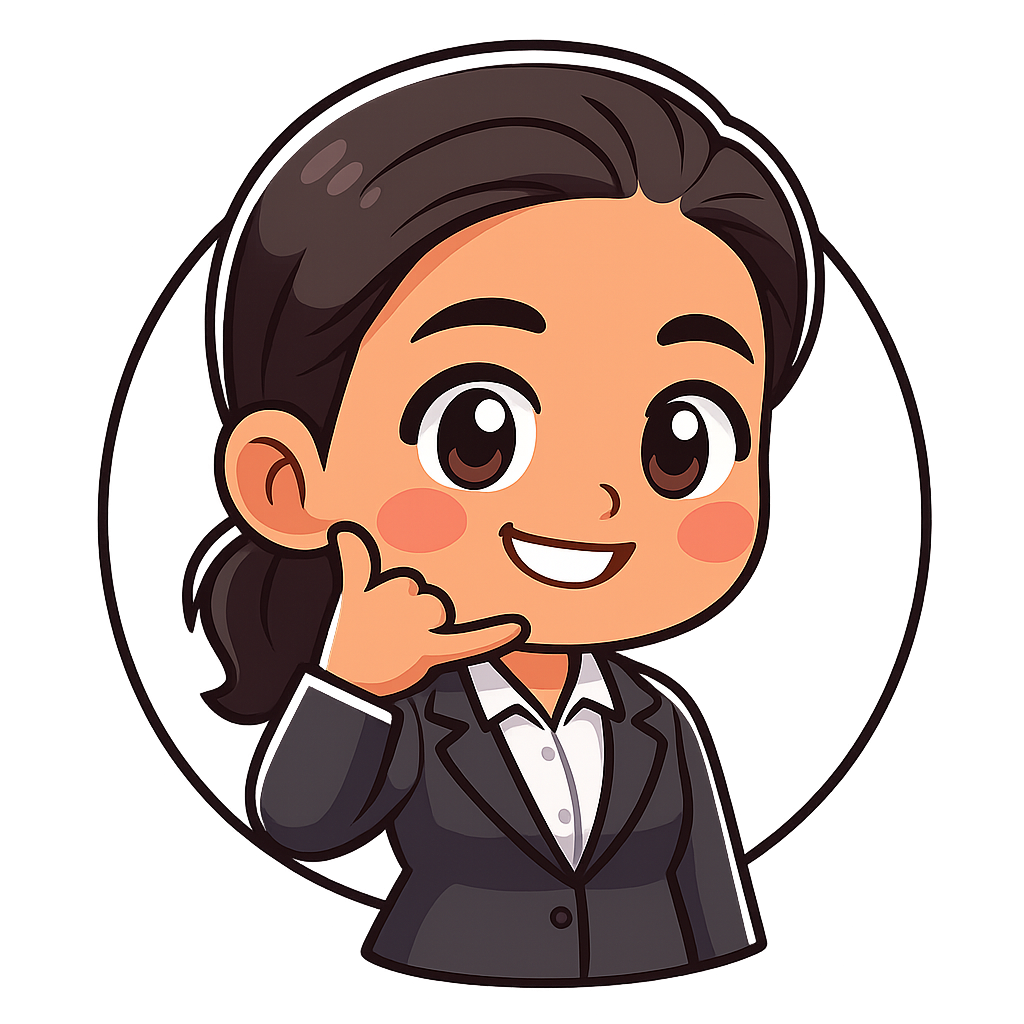
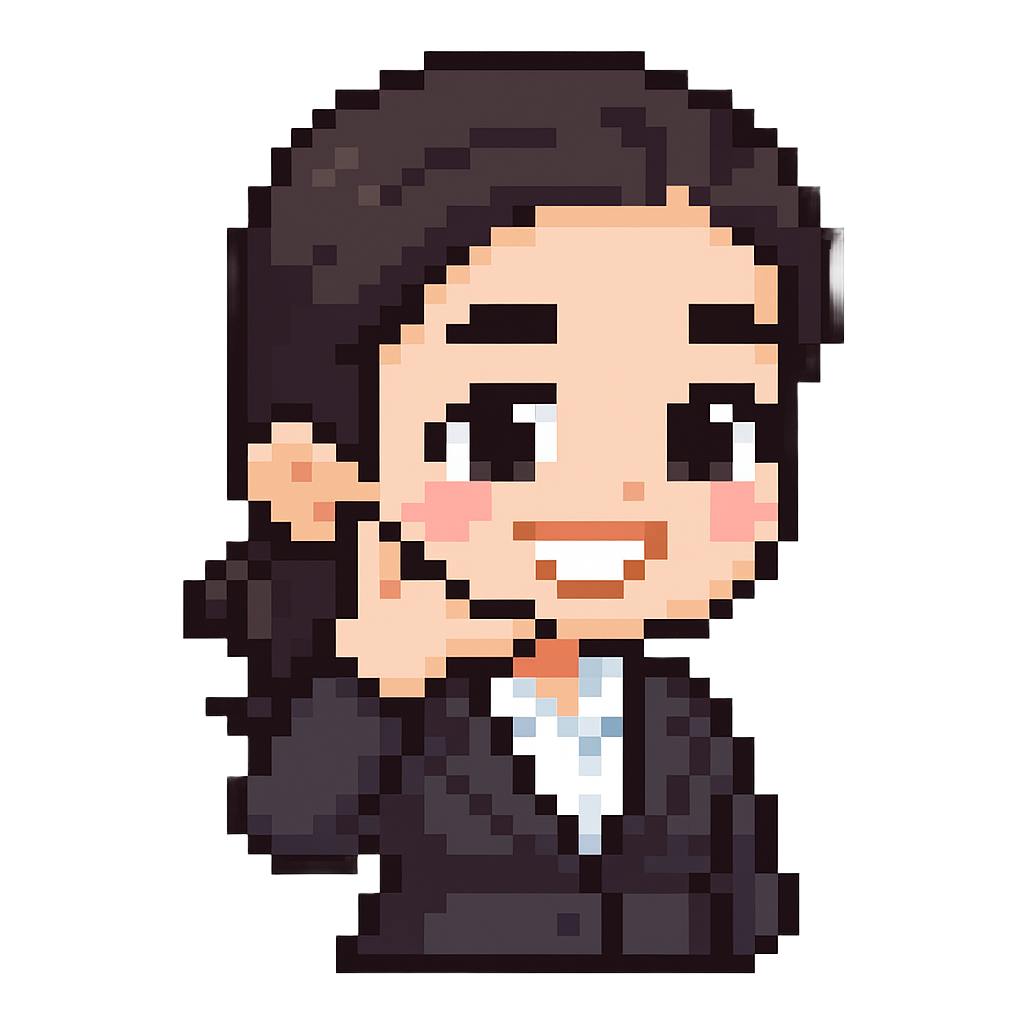
Revamp portfolio UI and game: enlarge maze, adjust player start, improve win popup, update LED scroller, restyle home/about/profile sections, fix hydration error, and enhance text layout and colors

diff --git a/src/app/page.tsx b/src/app/page.tsx
@@ -89,15 +89,10 @@ export default function Home() {
           className="pointer-events-auto mr-[-294px] bg-[#181e34] border-2 border-[#232b45] rounded-lg p-6 flex flex-col items-center pixel-card shadow-2xl shadow-[#232b45] mt-[-50px] w-[340px] animate-float-xy"
           style={{ opacity: profileOpacity, transition: 'opacity 0.2s cubic-bezier(0.4,0,0.2,1)' }}
         >
-          <Image src="/introduction.png" alt="Avatar" width={96} height={96} className="mb-2" />
+          <Image src="/intro.png" alt="Avatar" width={96} height={96} className="mb-2" />
           <div className="text-xl font-bold mb-[5px]">Harshitha</div>
           <div className="text-sm text-gray-300 mb-2">ETALYX</div>
-          <div className="grid grid-cols-2 gap-x-6 gap-y-2 mb-4">
-            <div className="flex items-center gap-2"><Image src="/pixel-xp.png" alt="XP" width={20} height={20} /> <span className="font-bold">50</span> <span className="text-xs text-gray-400">Total XP</span></div>
-            <div className="flex items-center gap-2"><Image src="/pixel-rank.png" alt="Rank" width={20} height={20} /> <span className="font-bold">Bronze</span> <span className="text-xs text-gray-400">Rank</span></div>
-            <div className="flex items-center gap-2"><Image src="/pixel-badge.png" alt="Badges" width={20} height={20} /> <span className="font-bold">1</span> <span className="text-xs text-gray-400">Badges</span></div>
-            <div className="flex items-center gap-2"><Image src="/pixel-streak.png" alt="Streak" width={20} height={20} /> <span className="font-bold">2</span> <span className="text-xs text-gray-400">Day streak</span></div>
-          </div>
+          <div className="mb-4 text-lg text-pink-400 pixel-font">👾unemployed coder👾</div>
           <Link href="/profile" className="pixel-button">View profile</Link>
         </div>
       </div>
@@ -105,11 +100,14 @@ export default function Home() {
       <div className="flex flex-col gap-16 lg:pr-0">
         {/* Home Section with Profile Card */}
         <section id="home" className="flex flex-row items-start gap-8 w-full max-w-4xl mt-[-405px] ml-4">
-          <div className="flex flex-col items-start gap-4 flex-1 -ml-[50px]" style={{ marginTop: '20px' }}>
-            <h1 className="text-4xl font-bold pixel-font text-yellow-400 mb-2 ml-2">HOLA,</h1>
-            <div className="text-2xl font-bold pixel-font text-yellow-300 ml-2">This is Harshitha Salian</div>
+          <div className="flex flex-col items-start gap-4 flex-1 -ml-[50px]" style={{ marginTop: '140px' }}>
+            <h1 className="text-8xl font-bold pixel-font" style={{ marginLeft: '-40px', marginBottom: '15px', color: '#e066ff' }}>HOLA,</h1>
+            <div className="text-6xl font-bold pixel-font" style={{ marginLeft: '-40px', marginTop: '10px', marginBottom: '10px', color: '#e066ff' }}>
+              <span style={{ display: 'block' }}>This is</span>
+              <span style={{ display: 'block', marginTop: '20px', marginBottom: '20px', color: '#e066ff' }}>HARSHITHA SALIAN</span>
+            </div>
             <p className="text-base text-gray-300 leading-8 max-w-xl ml-2">
-              Third-year Computer Science Engineering student at Shree Devi Institute of Technology, passionate about coding, technology, and real-world projects. Always curious and open to new opportunities for growth.
+
             </p>
           </div>
         </section>
@@ -118,14 +116,19 @@ export default function Home() {
         <section id="about" className="flex flex-col items-center gap-4 mt-[130px]">
           <div className="flex flex-row items-center bg-[#181e34] border border-[#232b45] rounded-lg p-8 shadow-2xl shadow-[#232b45] w-[1300px] h-[500px] min-w-[1300px] min-h-[500px] max-w-none max-h-none animate-float-xy" style={{ opacity: 0.95, zIndex: 20 }}>
             <div className="flex-shrink-0 flex flex-col items-center justify-center h-full mr-[33px] gap-4">
-              <Image src="/jumping.png" alt="Jumping" width={240} height={240} className="mb-2" />
+              <Image src="/victory.png" alt="Jumping" width={240} height={240} className="mb-2" />
 
             </div>
             <div className="flex flex-col items-start w-full h-full justify-center">
-              <h2 className="text-4xl font-bold pixel-font text-blue-400 mb-2">About Me</h2>
-              <p className="text-base text-gray-300 leading-8">
-                I am a third-year Computer Science Engineering student at Shree Devi Institute of Technology, Mangaluru. My journey in technology began with a curiosity for how things work, which soon turned into a passion for coding and building real-world solutions. I am constantly learning new programming languages, algorithms, and software development practices. I thrive in collaborative environments, enjoy participating in hackathons, and love sharing knowledge with peers. My goal is to leverage my skills to solve meaningful problems and contribute to the tech community. I am open to new opportunities, eager to volunteer for science and technology causes, and always ready to take on new challenges.
-              </p>
+              <h2 className="text-4xl font-bold pixel-font text-blue-400 mb-2" style={{ marginBottom: '30px' }}>About Me</h2>
+              <div className="text-base text-gray-300 leading-8">
+                <div style={{ marginBottom: '12px' }}>👩💻 Name: Harshitha Salian</div>
+                <div style={{ marginBottom: '12px' }}>🎓 Status: Final-year CSE student @ Shree Devi Institute of Technology</div>
+                <div style={{ marginBottom: '12px' }}>☁ Focus: Cloud computing enthusiast — love exploring AWS, Azure &amp; the future of scalable systems</div>
+                <div style={{ marginBottom: '12px' }}>🧑💻 Skills: Comfortable with coding, debugging, deploying — always down to learn new stacks</div>
+                <div style={{ marginBottom: '12px' }}>🚀 Goal: Build real stuff that actually solves problems</div>
+                <div style={{ marginBottom: '12px' }}>🔄 Vibe: Always curious, always shipping, always leveling up</div>
+              </div>
             </div>
           </div>
         </section>

diff --git a/src/app/profile/page.tsx b/src/app/profile/page.tsx
@@ -29,7 +29,7 @@ export default function Profile() {
           </div>
           {/* Social Icons at the bottom of the card */}
           <div className="flex flex-row gap-6 mt-6 mb-2">
-            <a href="https://www.linkedin.com/in/your-linkedin" target="_blank" rel="noopener noreferrer" title="LinkedIn">
+            <a href="https://www.linkedin.com/in/harshitha-salian-36a923253/" target="_blank" rel="noopener noreferrer" title="LinkedIn">
               <svg width="36" height="36" viewBox="0 0 24 24" fill="none" xmlns="http://www.w3.org/2000/svg">
                 <rect width="24" height="24" rx="4" fill="#0A66C2" />
                 <path d="M7.5 8.5C8.32843 8.5 9 7.82843 9 7C9 6.17157 8.32843 5.5 7.5 5.5C6.67157 5.5 6 6.17157 6 7C6 7.82843 6.67157 8.5 7.5 8.5Z" fill="white" />
@@ -37,14 +37,14 @@ export default function Profile() {
                 <path d="M10.75 10H12.25V11.1C12.25 11.1 12.75 10 14.25 10C15.75 10 16.25 11.1 16.25 12.5V18H14.75V13C14.75 12.45 14.3 12 13.75 12C13.2 12 12.75 12.45 12.75 13V18H11.25V10H10.75Z" fill="white" />
               </svg>
             </a>
-            <a href="mailto:your.email@gmail.com" target="_blank" rel="noopener noreferrer" title="Gmail">
+            <a href="mailto:harshisalian3003@gmail.com" target="_blank" rel="noopener noreferrer" title="Gmail">
               <svg width="36" height="36" viewBox="0 0 24 24" fill="none" xmlns="http://www.w3.org/2000/svg">
                 <rect width="24" height="24" rx="4" fill="#fff" />
                 <path d="M3 7.5V16.5C3 17.3284 3.67157 18 4.5 18H19.5C20.3284 18 21 17.3284 21 16.5V7.5C21 6.67157 20.3284 6 19.5 6H4.5C3.67157 6 3 6.67157 3 7.5Z" fill="#EA4335" />
                 <path d="M3 7.5L12 13.5L21 7.5" stroke="#34A853" strokeWidth="2" />
               </svg>
             </a>
-            <a href="https://www.instagram.com/your-instagram" target="_blank" rel="noopener noreferrer" title="Instagram">
+            <a href="https://www.instagram.com/harshiee.salian/" target="_blank" rel="noopener noreferrer" title="Instagram">
               <svg width="36" height="36" viewBox="0 0 24 24" fill="none" xmlns="http://www.w3.org/2000/svg">
                 <rect width="24" height="24" rx="4" fill="#fff" />
                 <radialGradient id="ig-gradient" cx="0.5" cy="0.5" r="0.5">
@@ -57,7 +57,7 @@ export default function Profile() {
                 <circle cx="18" cy="6" r="1" fill="white" />
               </svg>
             </a>
-            <a href="https://github.com/your-github" target="_blank" rel="noopener noreferrer" title="GitHub">
+            <a href="https://github.com/harshisalian" target="_blank" rel="noopener noreferrer" title="GitHub">
               <svg width="36" height="36" viewBox="0 0 24 24" fill="none" xmlns="http://www.w3.org/2000/svg">
                 <rect width="24" height="24" rx="4" fill="#181717" />
                 <path d="M12 2C6.48 2 2 6.58 2 12.26C2 16.62 4.87 20.26 8.84 21.5C9.34 21.58 9.5 21.3 9.5 21.06C9.5 20.85 9.49 20.3 9.49 19.61C7 20.09 6.35 18.73 6.13 18.18C6.02 17.91 5.5 17.03 5.09 16.81C4.75 16.63 4.22 16.13 5.08 16.12C5.9 16.11 6.5 16.89 6.68 17.16C7.64 18.7 9.13 18.26 9.72 18.01C9.8 17.36 10.05 16.92 10.33 16.7C8.28 16.48 6.08 15.77 6.08 12.5C6.08 11.53 6.43 10.74 7.01 10.12C6.91 9.9 6.6 8.93 7.11 7.67C7.11 7.67 7.86 7.43 9.5 8.57C10.2 8.37 10.97 8.27 11.74 8.27C12.51 8.27 13.28 8.37 13.98 8.57C15.62 7.43 16.37 7.67 16.37 7.67C16.88 8.93 16.57 9.9 16.47 10.12C17.05 10.74 17.4 11.53 17.4 12.5C17.4 15.78 15.19 16.48 13.14 16.7C13.5 16.98 13.81 17.54 13.81 18.36C13.81 19.44 13.8 20.67 13.8 21.06C13.8 21.3 13.96 21.59 14.46 21.5C18.43 20.26 21.3 16.62 21.3 12.26C21.3 6.58 16.82 2 12 2Z" fill="white" />
